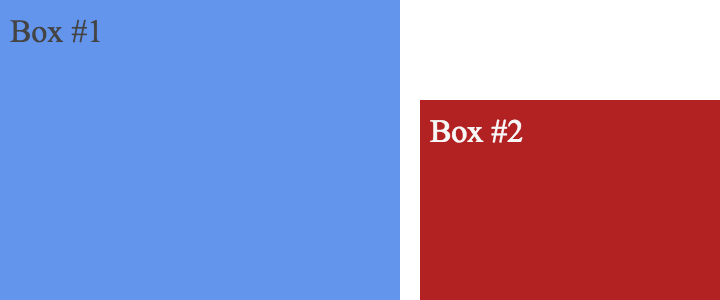
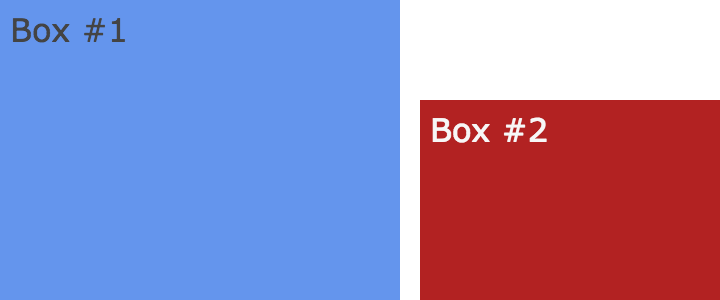
d3plus-shape examples

Changed region(s): [[0.5806, 0.39, 0.7639, 0.48], [0.0, 0.06, 0.1833, 0.15]]

diff --git a/_examples/d3plus-shape/getting-started/embed.html b/_examples/d3plus-shape/getting-started/embed.html
@@ -28,6 +28,7 @@
   d3plus.rect()
     .data(data)
     .fill(function(d) { return d.color; })
+    .fontFamily("Verdana")
     .label(function(d) { return d.text; })
     ();
 

diff --git a/_examples/d3plus-shape/getting-started/index.md b/_examples/d3plus-shape/getting-started/index.md
@@ -24,6 +24,7 @@ It can be passed to the [rectangle generator](#rect) like this:
 d3plus.rect()
   .data(data)
   .fill(function(d) { return d.color; })
+  .fontFamily("Verdana")
   .label(function(d) { return d.text; })
   ();
 ```
